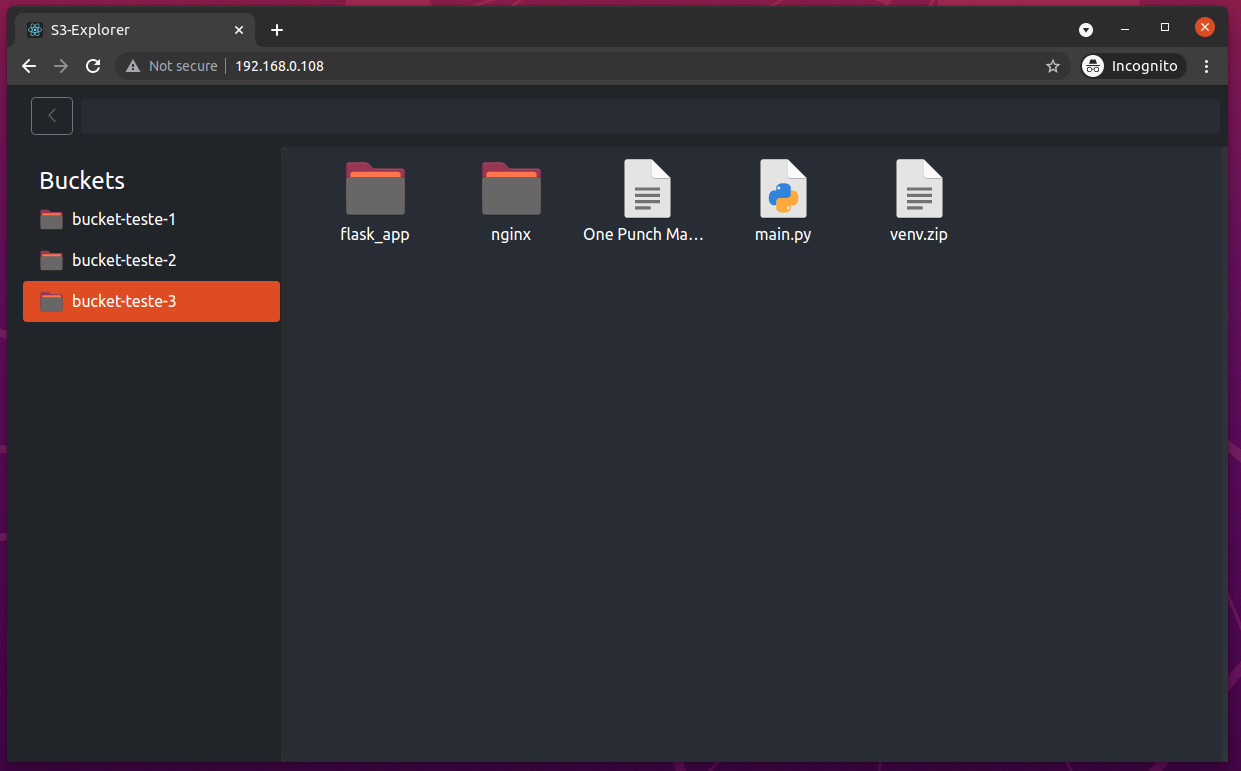
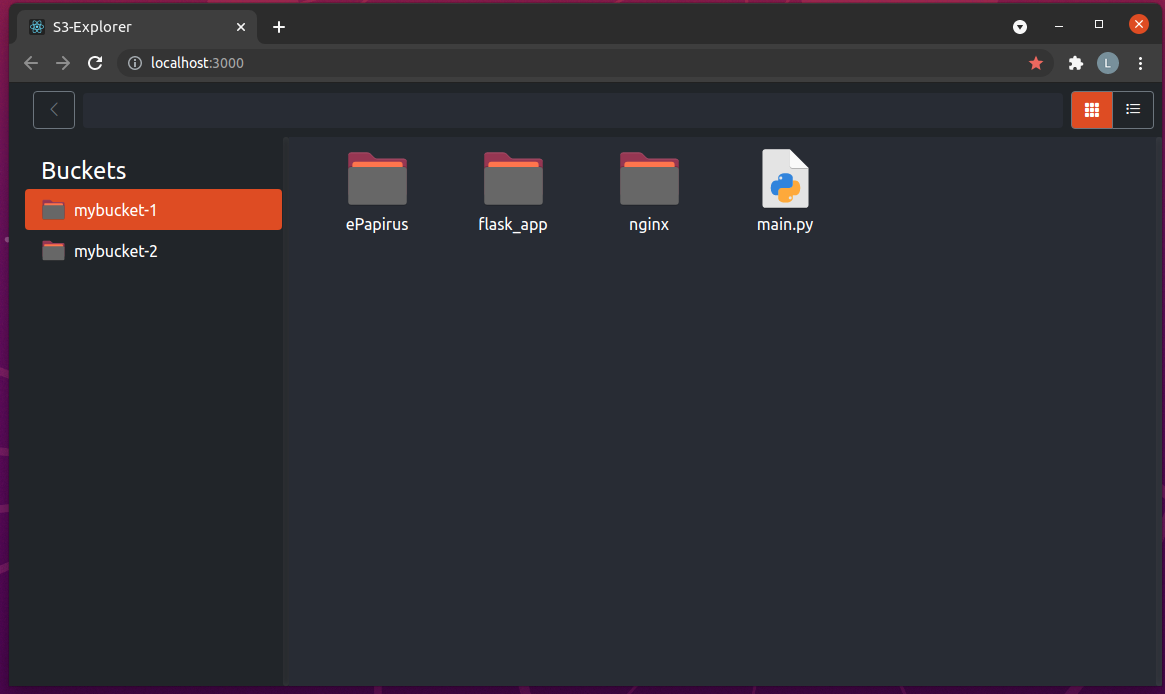
visualização de grid e lista

diff --git a/frontend/src/components/files_board.js b/frontend/src/components/files_board.js
@@ -3,7 +3,7 @@ import FolderIcon from './folder_icon'
 import FileIcon from './file_icon'
 import Spinner from './spinner'
 
-function FilesBoard({content, search_content, get_object_list, download_object, is_empty, is_loading, is_loading_search, is_searching, search_objects}){
+function FilesBoard({content, search_content, get_object_list, download_object, is_empty, is_loading, is_loading_more, is_loading_search, is_searching, is_table_view, search_objects}){
     const [search_term, set_search_term] = useState('')
 
     useEffect(function(){
@@ -15,15 +15,24 @@ function FilesBoard({content, search_content, get_object_list, download_object, 
     
     useEffect(function() {
         if (document.getElementById('end_of_page')){
+            if (is_table_view){
+                Array.from(document.getElementsByClassName('file-list')).forEach(function(e){
+                    if (e.offsetWidth < e.scrollWidth){
+                        e.title = e.innerText
+                    }
+                })
+            }
+
             const intersection_observer_end_of_page = new IntersectionObserver(function(entries){
                 if (entries.some(entry => entry.isIntersecting)){
+                    console.log('pegar amis')
                     get_object_list('', false, true)
                 }
             })
             intersection_observer_end_of_page.observe(document.getElementById('end_of_page'))
             return () => intersection_observer_end_of_page.disconnect();
         }
-    }, [is_loading, content])
+    }, [is_loading, content, is_table_view])
 
     useEffect(function() {
         if (document.getElementById('end_of_page_search')){
@@ -124,40 +133,101 @@ function FilesBoard({content, search_content, get_object_list, download_object, 
                             </>
                         )
                     } else {
-                        return content.map(function(e, i){
-                            return(
-                                function(){
-                                    if(e.is_folder){
-                                        return (
-                                            <FolderIcon folder_name={e.name} get_object_list={get_object_list} key={i}/>
-                                        )
-                                    } else if (content.length === i+1){
-                                        return (
-                                            <FileIcon 
-                                                idName="end_of_page" 
-                                                file_name={e.name} 
-                                                file_key={e.key} 
-                                                file_size={e.size}
-                                                file_last_modified={e.last_modified}
-                                                download_object={download_object} 
-                                                key={e.key}
-                                            />
-                                        )
-                                    } else {
-                                        return (
-                                            <FileIcon 
-                                                file_name={e.name} 
-                                                file_key={e.key} 
-                                                file_size={e.size}
-                                                file_last_modified={e.last_modified}
-                                                download_object={download_object} 
-                                                key={e.key}
-                                            />
-                                        )
+                        if(is_table_view){
+                            return (
+                                <>
+                                <table className="table" style={{"width": "100%", "maxWidth": "100%", "minWidth": "100%", "tableLayout": "fixed"}}>
+                                    <thead>
+                                        <tr>
+                                            <th width="2em" className="text-white" scope="col"></th>
+                                            <th width="30%" className="text-white file-list" scope="col">Nome</th>
+                                            <th width="10%" className="text-white file-list" scope="col">Size</th>
+                                            <th width="20%" className="text-white file-list" scope="col">Data De Modificação</th>
+                                            <th width="40%" className="text-white file-list" scope="col">Key</th>
+                                        </tr>
+                                    </thead>
+                                    <tbody>
+                                    {
+                                        content.map(function(e,i){
+                                            return(
+                                                function(){
+                                                    if(e.is_folder){
+                                                        return (
+                                                            <FolderIcon folder_name={e.name} get_object_list={get_object_list} key={i} is_list_format={true}/>
+                                                        )
+                                                    } else{
+                                                        return (
+                                                            <FileIcon 
+                                                                idName={i+1 === content.length ? "end_of_page" : null}
+                                                                file_name={e.name} 
+                                                                file_key={e.key} 
+                                                                file_size={e.size}
+                                                                file_last_modified={e.last_modified}
+                                                                download_object={download_object} 
+                                                                is_list_format={true}
+                                                                key={e.key}
+                                                            />
+                                                        )
+                                                    }
+                                                }()
+                                            )
+                                        })
                                     }
-                                }()
+                                    </tbody>
+                                </table>
+                                {
+                                    function(){
+                                        if(is_loading_more){
+                                            return(
+                                                <Spinner idName="bottom-spinner"/>
+                                            )
+                                        }
+                                    }()
+                                }
+                                </>
                             )
-                        })
+                        } else {
+                            return (
+                                <>
+                                {
+                                    function(){
+                                        return content.map(function(e, i){
+                                            return(
+                                                function(){
+                                                    if(e.is_folder){
+                                                        return (
+                                                            <FolderIcon folder_name={e.name} get_object_list={get_object_list} key={i}/>
+                                                        )
+                                                    } else {
+                                                        return (
+                                                            <FileIcon 
+                                                                idName={i+1 === content.length ? "end_of_page" : null}
+                                                                file_name={e.name} 
+                                                                file_key={e.key} 
+                                                                file_size={e.size}
+                                                                file_last_modified={e.last_modified}
+                                                                download_object={download_object} 
+                                                                key={e.key}
+                                                            />
+                                                        )
+                                                    }
+                                                }()
+                                            )
+                                        })
+                                    }()
+                                }
+                                {
+                                    function(){
+                                        if(is_loading_more){
+                                            return(
+                                                <Spinner idName="bottom-spinner"/>
+                                            )
+                                        }
+                                    }()
+                                }
+                                </>
+                            )
+                        }
                     }
                 }()
             }

diff --git a/frontend/src/pages/main.js b/frontend/src/pages/main.js
@@ -18,6 +18,8 @@ function Main() {
     const [is_searching, set_is_searching] = useState(false)
     const [next_continuation_token, set_next_continuation_token] = useState(false)
     const [next_continuation_token_search, set_next_continuation_token_search] = useState(false)
+    const [is_table_view, set_is_table_view] = useState(false)
+    const [is_loading_more_icon, set_is_loading_more_icon] = useState(false)
 
     useEffect(function(){
         get_buckets()
@@ -85,9 +87,7 @@ function Main() {
             if (response.data.objects.length === 0){
                 set_files_board_search_content([])
                 set_next_continuation_token_search(false)
-                //set_is_empty(true)
             } else {
-                //set_is_empty(false)
                 set_next_continuation_token_search(response.data.next_continuation_token)
                 set_files_board_search_content((currentList) => [...currentList, ...response.data.objects])
             } 
@@ -134,6 +134,7 @@ function Main() {
                 "x-prefix": new_prefix
             }
             if (is_loading_more){
+                set_is_loading_more_icon(true)
                 headers['x-next-continuation-token'] = next_continuation_token
             }
             const config = {"headers": headers}
@@ -151,6 +152,7 @@ function Main() {
             toast_control(error.response.data)
         } finally {
             set_is_loading(false)
+            set_is_loading_more_icon(false)
         }
     }
 
@@ -179,7 +181,7 @@ function Main() {
 
     return (
         <>
-            <Header current_folder={current_prefix} previus_folder={previus_prefix} get_object_list={get_object_list}/>
+            <Header current_folder={current_prefix} previus_folder={previus_prefix} get_object_list={get_object_list} set_is_table_view={set_is_table_view}/>
             <main>
                 <BucketSelector buckets_list={buckets_list} set_current_bucket={set_current_bucket} is_loading={is_loading}/>
                 <FilesBoard 
@@ -191,6 +193,8 @@ function Main() {
                     is_loading={is_loading}
                     is_loading_search={is_loading_search}
                     is_searching={is_searching}
+                    is_table_view={is_table_view}
+                    is_loading_more={is_loading_more_icon}
                     search_objects={search_objects}
                 />
             </main>

diff --git a/frontend/src/components/header.js b/frontend/src/components/header.js
@@ -1,14 +1,32 @@
-function Header({current_folder, previus_folder, get_object_list}){
+function Header({current_folder, previus_folder, get_object_list, set_is_table_view}){
+    function handle_view_change(is_grid){
+        if (is_grid){
+            set_is_table_view(false)
+            document.getElementById('grid-view-button').classList.add('btn-files-view-selected')
+            document.getElementById('list-view-button').classList.remove('btn-files-view-selected')
+        } else {
+            set_is_table_view(true)
+            document.getElementById('grid-view-button').classList.remove('btn-files-view-selected')
+            document.getElementById('list-view-button').classList.add('btn-files-view-selected')
+        }
+    }
+
     return (
         <>
         <nav className="navbar sticky-top navbar-expand-lg bg-dark navbar-dark" style={{height: '9vh'}}>
-            <div className="ms-4 d-flex align-items-center w-100">
+            <div className="ms-4 me-2 d-flex align-items-center w-100">
                 <button onClick={() => {get_object_list(previus_folder, true)}} className="btn btn-outline-secondary">
                     <i className="bi bi-chevron-left"></i>
                 </button>
                 <div className="mx-2 rounded" style={{height: '2.2em', width: '-webkit-fill-available', background: '#282c34ff'}}>
                     <h6 className="m-2 ms-3 text-white">{current_folder.slice(0,current_folder.length-1)}</h6>
                 </div>
+                <button id="grid-view-button" onClick={() => handle_view_change(true)} className="btn btn-outline-secondary text-white btn-files-view-selected" style={{borderRadius: "4px 0 0 4px"}}>
+                    <i class="bi bi-grid-3x3-gap-fill"></i>
+                </button>
+                <button id="list-view-button" onClick={() => handle_view_change(false)} className="btn btn-outline-secondary btn-files-view text-white" style={{borderRadius: "0 4px 4px 0", borderLeft: 0}}>
+                    <i class="bi bi-list-task"></i>
+                </button>
             </div>
         </nav>
         </>

diff --git a/frontend/src/components/folder_icon.js b/frontend/src/components/folder_icon.js
@@ -1,18 +1,30 @@
 import FolderIconSvg from '../icons/folder.svg'
 
-function FolderIcon({folder_name, get_object_list}){
+function FolderIcon({folder_name, get_object_list, is_list_format}){
     const prefix = `${folder_name}/`
-    return (
-        <div className="me-2 d-flex flex-column align-items-center justify-content-center my-board-component">
-            <img src={FolderIconSvg} onDoubleClick={()=>{get_object_list(prefix)}} className="my-board-component-img" alt=''/>
-            <span 
-                className="text-white text-center" 
-                style={{width: "8rem", textOverflow: "ellipsis", overflow: "hidden", whiteSpace: "nowrap"}} 
-                title={folder_name.length > 13 ? folder_name : null}>
-                    {folder_name}
-            </span>
-        </div>
-    )
+    if (!is_list_format){
+        return (
+            <div className="me-2 d-flex flex-column align-items-center justify-content-center my-board-component">
+                <img src={FolderIconSvg} onDoubleClick={()=>{get_object_list(prefix)}} className="my-board-component-img" alt=''/>
+                <span 
+                    className="text-white text-center" 
+                    style={{width: "8rem", textOverflow: "ellipsis", overflow: "hidden", whiteSpace: "nowrap"}} 
+                    title={folder_name.length > 13 ? folder_name : null}>
+                        {folder_name}
+                </span>
+            </div>
+        )
+    } else {
+        return (
+            <tr onDoubleClick={()=>{get_object_list(prefix)}}>
+                <th scope="row"><img src={FolderIconSvg} className="my-board-component-img-list" alt=''/></th>
+                <td className="text-white file-name-list file-list">{folder_name}</td>
+                <td className="text-white file-list"></td>
+                <td className="text-white file-list"></td>
+                <td className="text-white file-list"></td>
+            </tr>
+        )
+    }
 }
 
 export default FolderIcon

diff --git a/frontend/src/App.css b/frontend/src/App.css
@@ -18,6 +18,10 @@ main {
     box-shadow: none;
 }
 
+.btn-files-view-selected {
+    background-color: #df4a16ff;
+}
+
 .my-board-component:hover {
     cursor: pointer;
 }
@@ -83,7 +87,6 @@ main {
 ::-webkit-scrollbar-thumb {
     border-radius: 10px;
     -webkit-box-shadow: inset 0 0 6px #df4a16ff;
-    /* background-color: rgba(131, 127, 127, 0.5); */
     background-color: #df4a16ff;
 }
 
